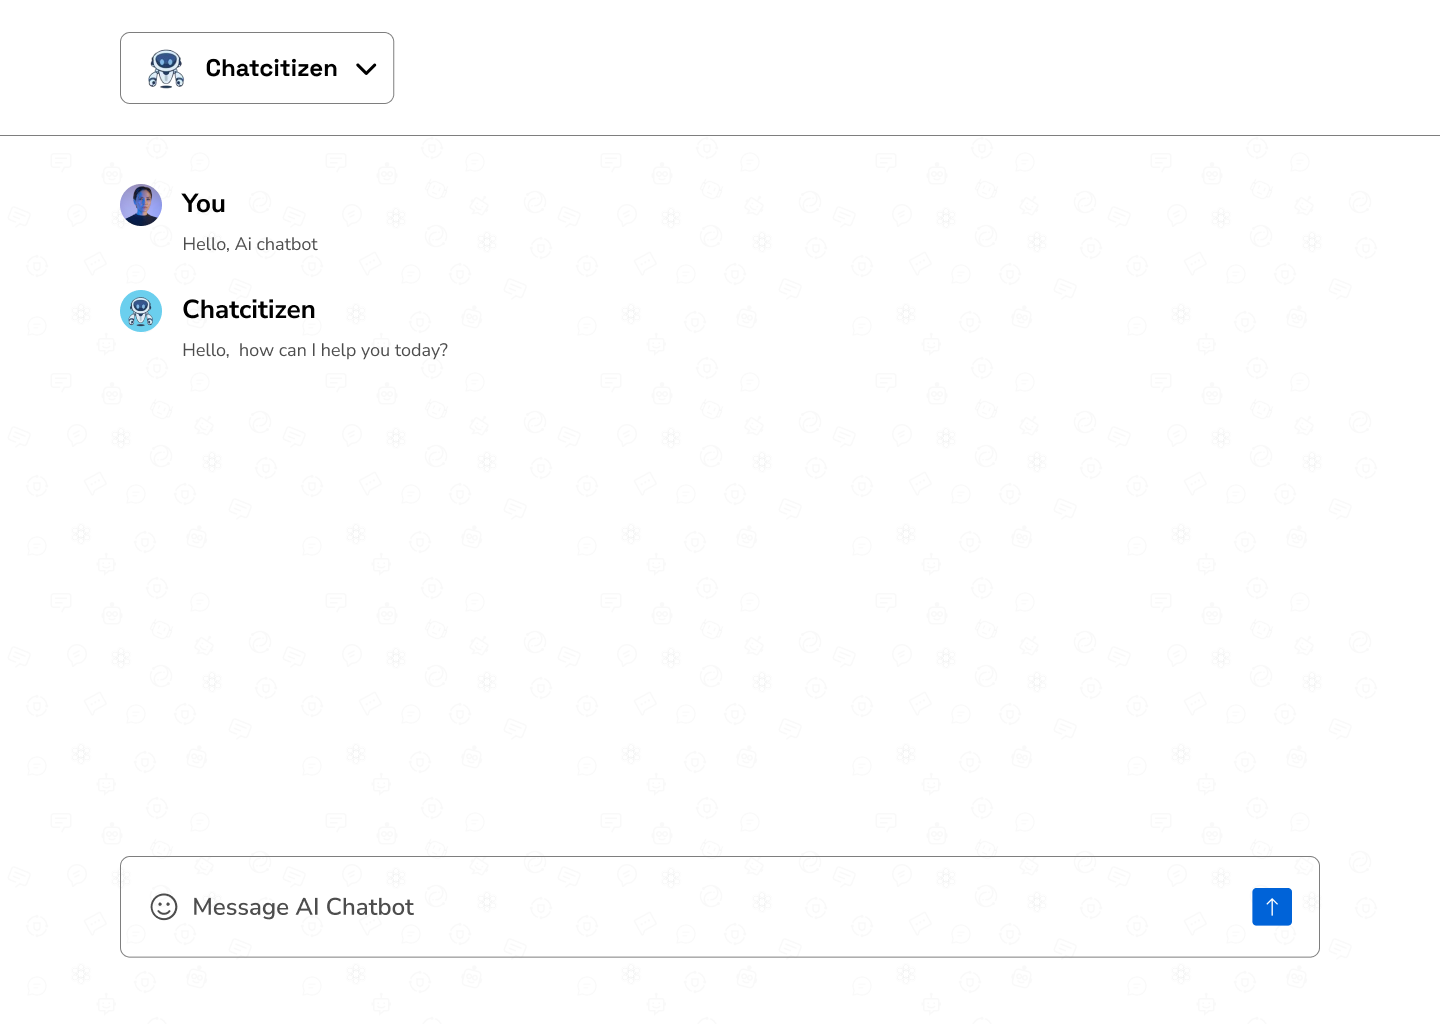
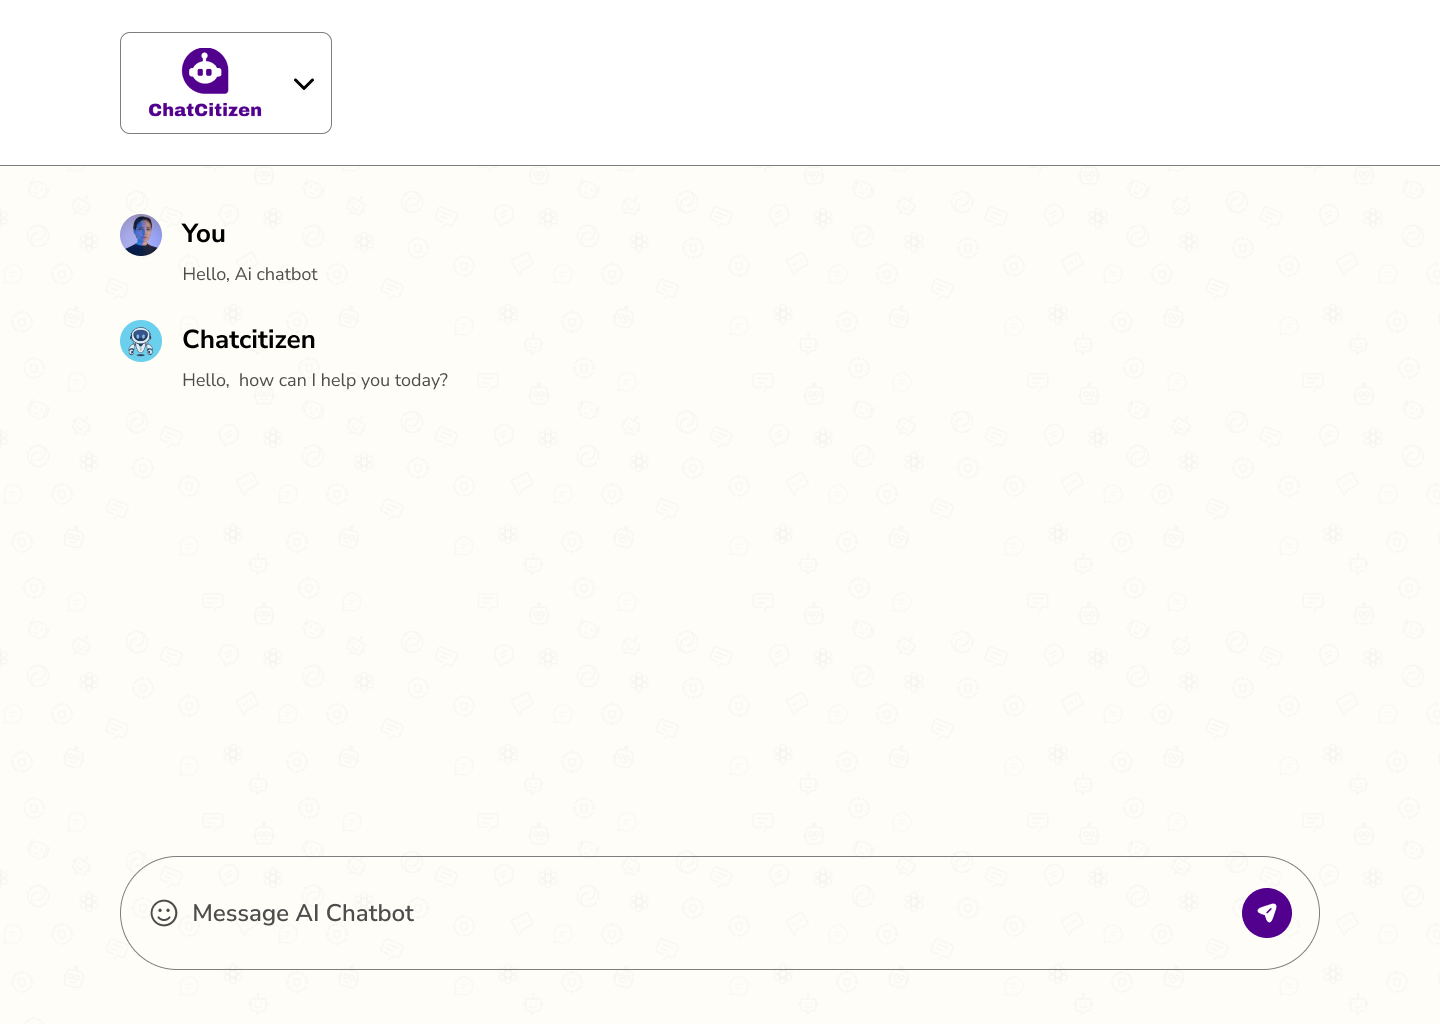
updated the input form

diff --git a/src/Chat.js b/src/Chat.js
@@ -6,12 +6,13 @@ import logout from "./images/logout.png";
 //import user from "./images/Ellipse.png";
 //import bot from "./images/5.png";
 import emoji from "./images/emoji.png";
-import send from "./images/send.png";
+import send from "./images/send1.png";
 import { Link, useNavigate } from "react-router-dom";
 import axios from "axios";
 import { Fragment } from 'react'
 import { Menu, Transition } from '@headlessui/react'
 import { Chatbar } from "./components/Chatbar";
+//import {useStream} from 'react-fetch-streams';
 
 function classNames(...classes) {
   return classes.filter(Boolean).join(' ')
@@ -127,6 +128,7 @@ const Chat = () => {
         setMessages(updatedMessagesWithBotResponse);
 
         localStorage.setItem("user-message", JSON.stringify(response.data));
+
       } catch (error) {
         console.error("Error handling form submission:", error);
         // Handle errors gracefully, e.g., display an error message to the user
@@ -259,12 +261,8 @@ const Chat = () => {
 
         </section>
           
-          <form
-            onSubmit={(e) => {
-              e.preventDefault();
-              sendMessage();
-            }}
-            className="message flex items-center justify-between rounded-lg px-2"
+          <form onSubmit={(e) => {e.preventDefault(); sendMessage();}}
+            className="message flex items-center justify-between rounded-3xl px-2 py-2"
           >
             <div className="flex items-center">
           

diff --git a/src/App.css b/src/App.css
@@ -145,7 +145,7 @@
 }
 
 #send{
-  width: 80%;
+  width: 60%;
 }
 
 .chat-sec{
